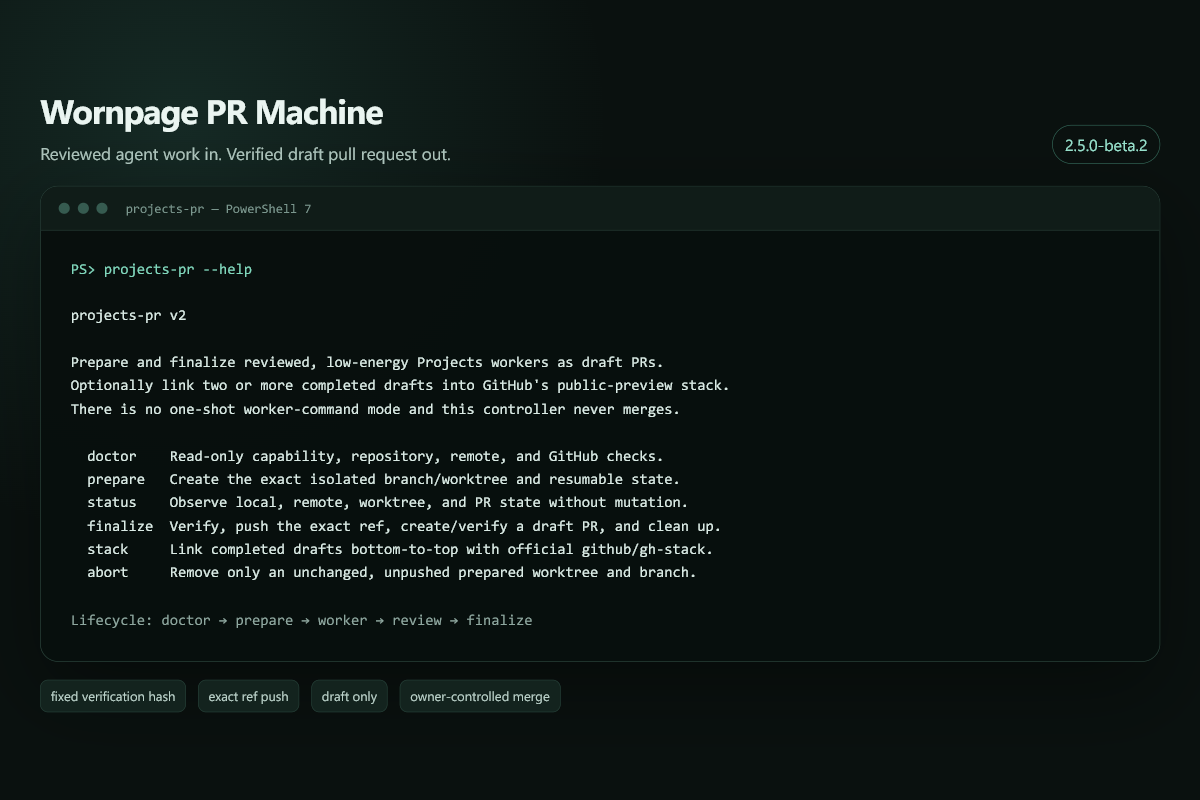
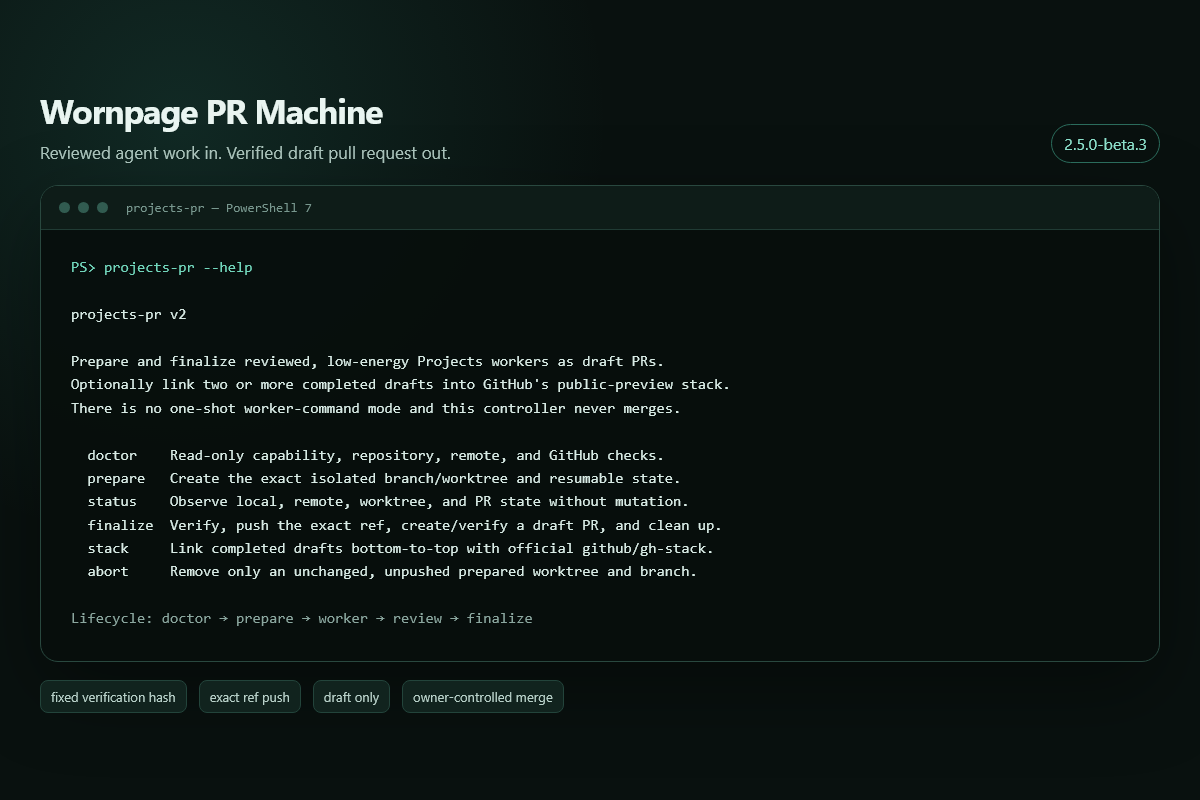
Use Wornpage attribution in the public package (#3)
Use Wornpage attribution in the public and packaged README, and update the recommended download to 2.5.0-beta.3. Align the package/plugin version metadata and CLI preview with that release.

Controller behavior and the AGPL license are unchanged.

Validation: npm run check passed (25 tests plus the clean-consumer package contract); repository and tarball content scans found no prior personal attribution; git diff --check passed.

diff --git a/docs/assets/cli-demo.html b/docs/assets/cli-demo.html
@@ -46,7 +46,7 @@
         <h1>Wornpage PR Machine</h1>
         <p>Reviewed agent work in. Verified draft pull request out.</p>
       </div>
-      <div class="badge">2.5.0-beta.2</div>
+      <div class="badge">2.5.0-beta.3</div>
     </header>
     <section class="terminal" aria-label="projects-pr command help">
       <div class="bar"><i class="dot"></i><i class="dot"></i><i class="dot"></i><span>projects-pr — PowerShell 7</span></div>

diff --git a/docs/releases/v2.5.0-beta.3.md b/docs/releases/v2.5.0-beta.3.md
@@ -1,0 +1,12 @@
+# Wornpage PR Machine 2.5.0-beta.3
+
+This package uses Wornpage attribution in the public and packaged README. Controller behavior, public APIs, dependencies, and the AGPL-3.0-only license are unchanged.
+
+Install the current package:
+
+```sh
+npm install --global https://github.com/wornpage/projects-pr-machine/releases/download/v2.5.0-beta.3/wornpage-projects-pr-2.5.0-beta.3.tgz
+projects-pr --help
+```
+
+The release includes the package and its SHA-256 checksum. Earlier versioned releases retain their original contents.

diff --git a/README.md b/README.md
@@ -48,7 +48,7 @@ Stacked drafts are optional and additionally require the official `github/gh-sta
 Install the beta tarball from its GitHub release:
 
 ```sh
-npm install --global https://github.com/wornpage/projects-pr-machine/releases/download/v2.5.0-beta.2/wornpage-projects-pr-2.5.0-beta.2.tgz
+npm install --global https://github.com/wornpage/projects-pr-machine/releases/download/v2.5.0-beta.3/wornpage-projects-pr-2.5.0-beta.3.tgz
 projects-pr --help
 ```
 

diff --git a/integrations/codex/projects-pack-delegation/README.md b/integrations/codex/projects-pack-delegation/README.md
@@ -1,6 +1,6 @@
 # Projects Pack Delegation for Codex
 
-Version 2.5.0-beta.2 contains one coordinator skill, three Codex custom-agent
+Version 2.5.0-beta.3 contains one coordinator skill, three Codex custom-agent
 definitions, and the skill-local `projects-pr` JavaScript controller. Projects
 stores coordination state; Codex performs work with the customer's existing
 session and model subscription. Read the [trust

diff --git a/CHANGELOG.md b/CHANGELOG.md
@@ -1,5 +1,10 @@
 # Changelog
 
+## 2.5.0-beta.3 - 2026-09-07
+
+- Uses Wornpage attribution in the public and packaged README.
+- Updates the recommended download to this package; controller behavior and licensing are unchanged.
+
 ## 2.5.0-beta.2 - 2026-09-01
 
 - Makes the stack controller fixture portable across PowerShell 7 and `/bin/sh` CI hosts.

diff --git a/docs/agent-trust.md b/docs/agent-trust.md
@@ -4,7 +4,7 @@ Read this before connecting the Codex integration. It separates the public local
 
 ## Public local surface
 
-Version 2.5.0-beta.2 includes:
+Version 2.5.0-beta.3 includes:
 
 - one `projects-pack-delegation` skill;
 - three custom-agent definitions: coordinator, worker, and reviewer;
